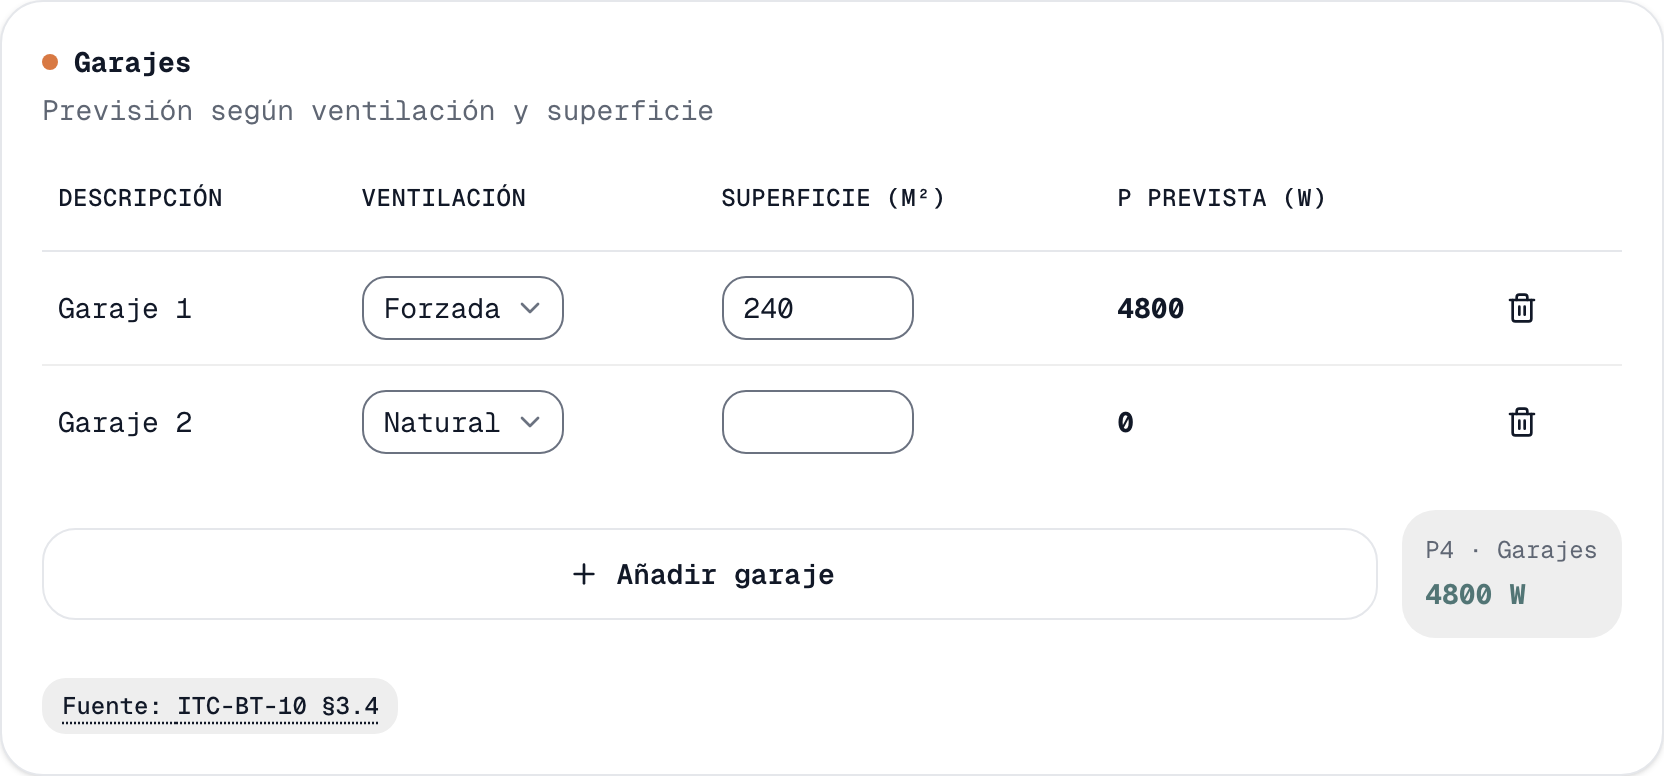
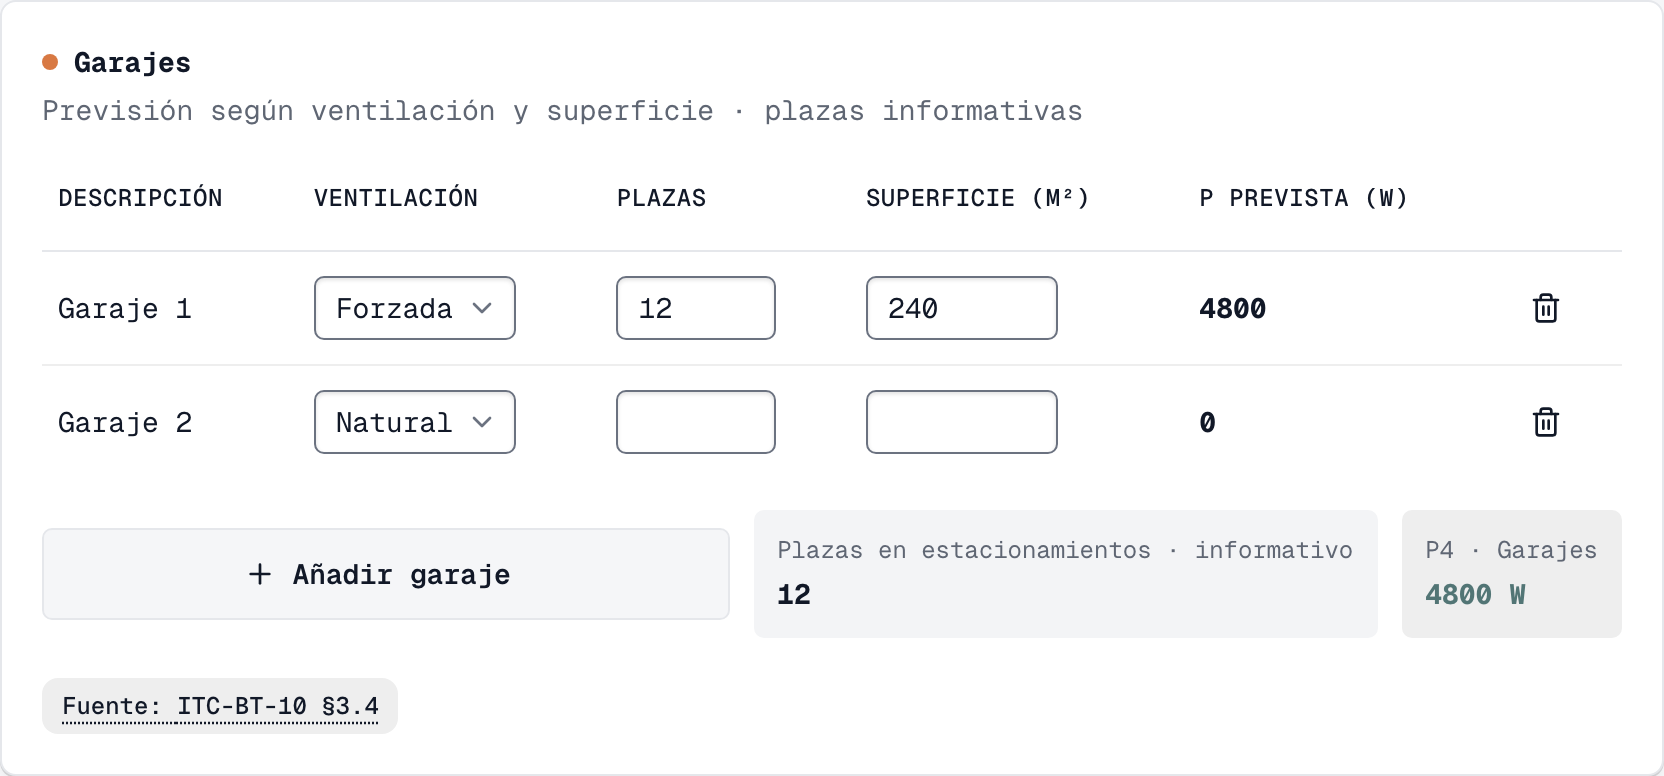
feat(cargas): plazas informativas en los garajes de P4
Cada fila de Garajes registra su numero de plazas, un dato que no entra en
la formula de P4 (superficie x densidad con minimo de 3.450 W) y que sirve
de recuento para el minimo del 10 % de IRVE de la ITC-BT-10 §5.2.

- Columna Plazas en la tabla, metrica con el total y columna en el PDF.
- El snapshot guardado normaliza plazas ausentes o invalidas a 0 sin
  descartar el proyecto.
- Nota de fuente, pagina de ayuda (captura regenerada) y README alineados.

diff --git a/components/load-calculator.tsx b/components/load-calculator.tsx
@@ -49,7 +49,7 @@ type HousingRow = { level: 'Básica' | 'Elevada'; power: number; homes: number }
 /** A select option: a plain string, or a value with its own printed label. */
 type ChoiceItem = string | { value: string; label: string }
 type LocalRow = { name: string; type: 'Comercial/oficina' | 'Industria'; area: number; real: number }
-type GarageRow = { name: string; ventilation: 'Forzada' | 'Natural'; area: number }
+type GarageRow = { name: string; ventilation: 'Forzada' | 'Natural'; area: number; plazas: number }
 type ElevatorRow = { name: string; ita: 'ITA-1' | 'ITA-2' | 'ITA-3' | 'ITA-4' | 'ITA-5' | 'ITA-6'; power: number; unit: 'W' | 'CV' }
 
 // ITA types from ITC-BT 10 table
@@ -149,8 +149,8 @@ const exampleLocals: LocalRow[] = [
   { name: 'Local 2', type: 'Comercial/oficina', area: 30, real: 0 },
 ]
 const exampleGarages: GarageRow[] = [
-  { name: 'Garaje 1', ventilation: 'Forzada', area: 240 },
-  { name: 'Garaje 2', ventilation: 'Natural', area: 0 },
+  { name: 'Garaje 1', ventilation: 'Forzada', area: 240, plazas: 12 },
+  { name: 'Garaje 2', ventilation: 'Natural', area: 0, plazas: 0 },
 ]
 const fmt = (value: number, digits = 0) => new Intl.NumberFormat('es-ES', { maximumFractionDigits: digits, minimumFractionDigits: digits }).format(value)
 const fmtDec = (value: number) => new Intl.NumberFormat('es-ES', { maximumFractionDigits: 2 }).format(value)
@@ -375,6 +375,9 @@ export function LoadCalculator() {
       plazas, lightingPower, motorIncrement, elevatorPower, motorPower, largestMotorPower, otherPower, localPowers, garagePowers, irveCs,
     }
   }, [housing, locals, garages, elevators, motors, otherLoads, lighting, parking, irveOption, settings])
+
+  // Recuento informativo: las plazas de los garajes no intervienen en P4.
+  const garageParkingSpaces = garages.reduce((sum, row) => sum + Math.max(0, row.plazas || 0), 0)
 
   const loadExplanation = useMemo(
     () => explainLoadForecast({ housing, locals, garages, elevators, motors, otherLoads, lighting, parking, irveOption }, result, settings),
@@ -677,7 +680,7 @@ export function LoadCalculator() {
     addExplanationPage('2.1 Desarrollo del cálculo · Previsión de cargas', loadExplanation as { steps: PdfExplanationStep[] })
     addDetailPage('3. Servicios generales', ['Descripción', 'Tipo', 'Potencia'], [...elevators.map(row => [row.name, row.ita, `${fmt(row.unit === 'CV' ? row.power * settings.cvToWatts : row.power)} W`]), ...motors.map(row => [row.name, 'Motor', `${fmt(row.unit === 'CV' ? row.power * settings.cvToWatts : row.power)} W`]), ['Incremento del motor mayor', `×${fmtDec(settings.motorCoefficient)}`, `${fmt(result.motorIncrement)} W`], ...otherLoads.map(row => [row.name, 'Otra carga', `${fmt(row.power)} W`]), ...lighting.filter(row => previewLightingPower(row, settings) > 0).map(row => [LIGHTING_LABELS[row.id], row.lamp, `${fmt(previewLightingPower(row, settings))} W`]), ['Subtotal alumbrado', `×${fmtDec(settings.dischargeLampCoefficient)} lámparas de descarga`, `${fmt(result.lightingPower)} W`]])
     addDetailPage('4. Locales y oficinas', ['Descripción', 'Tipo', 'Superficie', 'Previsión'], locals.map(row => [row.name, row.type, `${row.area} m²`, `${fmt(previewLocalPower(row, settings))} W`]))
-    addDetailPage('5. Garajes', ['Descripción', 'Ventilación', 'Superficie', 'Previsión'], garages.map(row => [row.name, row.ventilation, `${row.area} m²`, `${fmt(Math.max(row.area * (row.ventilation === 'Forzada' ? settings.forcedGaragePowerPerM2 : settings.naturalGaragePowerPerM2), row.area ? settings.minimumSupplyPower : 0))} W`]))
+    addDetailPage('5. Garajes', ['Descripción', 'Ventilación', 'Plazas', 'Superficie', 'Previsión'], garages.map(row => [row.name, row.ventilation, fmt(row.plazas || 0), `${row.area} m²`, `${fmt(Math.max(row.area * (row.ventilation === 'Forzada' ? settings.forcedGaragePowerPerM2 : settings.naturalGaragePowerPerM2), row.area ? settings.minimumSupplyPower : 0))} W`]))
     addDetailPage('6. Línea General de Alimentación · ITC-BT-14', ['Concepto', 'Valor'], [
       ['Potencia prevista', `${fmt(lga.powerW)} W`],
       ['Intensidad de línea (Ib)', `${fmt(lgaResult.ratedCurrent, 2)} A`],
@@ -898,7 +901,7 @@ export function LoadCalculator() {
             </section>
             <section className="rounded-card border border-line bg-paper p-5 shadow-card"><SectionTitle title="Servicios generales" subtitle="Ascensores, motores, otras cargas y alumbrado de zonas comunes" /><div className="flex flex-col gap-4"><ServiceTable title="Ascensores" addLabel="Añadir ascensor" onAdd={() => setElevators(es => [...es, { name: `Ascensor ${es.length + 1}`, ita: 'ITA-1', power: itaPowerW('ITA-1'), unit: 'W' }])} headers={['Descripción', 'ITA', 'Potencia ITA', 'Potencia real', 'Unidad', '']} rows={elevators.map((row, i) => [<Input key="name" aria-label={`Descripción · Ascensor ${i + 1}`} className="w-32" value={row.name} onChange={e => setElevators(es => es.map((x, j) => j === i ? { ...x, name: e.target.value } : x))} />, <div key="ita-group" className="flex items-center gap-1"><ChoiceSelect key="ita" label={`Tipo ITA · ${row.name}`} value={row.ita} onChange={value => setElevators(es => es.map((x, j) => j === i ? { ...x, ita: value as ElevatorRow['ita'], power: itaPowerW(value as ElevatorRow['ita']), unit: 'W' } : x))} items={['ITA-1', 'ITA-2', 'ITA-3', 'ITA-4', 'ITA-5', 'ITA-6']} /><Button key="ita-info" type="button" variant="outline" size="icon" className="flex size-8 items-center justify-center rounded-lg border border-line bg-transparent text-ink-faint transition-colors hover:border-brand-mark hover:bg-brand-soft hover:text-brand-strong" aria-label="Ver tabla de tipos ITA" onClick={() => setShowItaTable(true)}><Table2 className="size-4" /></Button></div>, <span key="ita-power" className="tabular-nums text-sm">{fmtDec(itaPowerW(row.ita) / 1000)} kW</span>, <Input key="power" aria-label={`Potencia real · ${row.name}`} className="w-24" type="number" min="0" value={row.power || ''} onChange={e => setElevators(es => es.map((x, j) => j === i ? { ...x, power: Number(e.target.value) } : x))} />, <ChoiceSelect key="unit" label={`Unidad · ${row.name}`} value={row.unit} onChange={e => setElevators(es => es.map((x, j) => j === i ? { ...x, unit: e as ElevatorRow['unit'] } : x))} items={['W', 'CV']} />, <Button key="remove" type="button" variant="ghost" size="icon" aria-label={`Eliminar ${row.name}`} onClick={() => setElevators(es => es.filter((_, j) => j !== i))}><Trash2 /></Button>])} /><ServiceTable title="Motores" addLabel="Añadir motor" onAdd={() => setMotors(ms => [...ms, { name: `Motor ${ms.length + 1}`, power: 0, unit: 'W' }])} headers={['Descripción', 'Potencia', 'Unidad', '']} rows={motors.map((row, i) => [<Input key="name" aria-label={`Descripción · Motor ${i + 1}`} className="w-36" value={row.name} onChange={e => setMotors(ms => ms.map((x, j) => j === i ? { ...x, name: e.target.value } : x))} />, <Input key="power" aria-label={`Potencia · ${row.name}`} className="w-24" type="number" min="0" value={row.power || ''} onChange={e => setMotors(ms => ms.map((x, j) => j === i ? { ...x, power: Number(e.target.value) } : x))} />, <ChoiceSelect key="unit" label={`Unidad · ${row.name}`} value={row.unit} onChange={e => setMotors(ms => ms.map((x, j) => j === i ? { ...x, unit: e as MotorRow['unit'] } : x))} items={['W', 'CV']} />, <Button key="remove" type="button" variant="ghost" size="icon" aria-label={`Eliminar ${row.name}`} onClick={() => setMotors(ms => ms.filter((_, j) => j !== i))}><Trash2 /></Button>])} /><ServiceTable title="Otras cargas" addLabel="Añadir carga" onAdd={() => setOtherLoads(ls => [...ls, { name: `Carga ${ls.length + 1}`, power: 0 }])} headers={['Descripción', 'Potencia (W)', '']} rows={otherLoads.map((row, i) => [<Input key="name" aria-label={`Descripción · Carga ${i + 1}`} className="w-44" value={row.name} onChange={e => setOtherLoads(ls => ls.map((x, j) => j === i ? { ...x, name: e.target.value } : x))} />, <Input key="power" aria-label={`Potencia · ${row.name}`} className="w-28" type="number" min="0" value={row.power || ''} onChange={e => setOtherLoads(ls => ls.map((x, j) => j === i ? { ...x, power: Number(e.target.value) } : x))} />, <Button key="remove" type="button" variant="ghost" size="icon" aria-label={`Eliminar ${row.name}`} onClick={() => setOtherLoads(ls => ls.filter((_, j) => j !== i))}><Trash2 /></Button>])} /><LightingTable rows={lighting} settings={settings} onChange={setLighting} /></div><Metric label="P2 · Servicios generales" value={`${fmt(result.p2)} W`} accent /><p className="mt-4 flex items-start gap-2 rounded-lg bg-brand-soft p-3 text-xs leading-5 text-brand-ink"><Info data-icon="inline-start" /> ITA permite distinguir la potencia del ascensor. Coeficientes actuales: ascensores ×{fmtDec(settings.elevatorCoefficient)}, motor de mayor potencia ×{fmtDec(settings.motorCoefficient)} y lámparas de descarga ×{fmtDec(settings.dischargeLampCoefficient)}. Motores y otras cargas se suman a valor nominal; el incremento del motor mayor es {fmt(result.motorIncrement)} W. Conversión para potencias expresadas en CV: {fmtDec(settings.cvToWatts)} W/CV. Los cambios en Parámetros de cálculo se aplican automáticamente a P2.</p>{settings.showSourceNotes && <SourceNote label="ITC-BT-10 §3.2">ITC-BT-10 §3.2: los servicios generales se suman sin factor de reducción por simultaneidad (CS = 1). La instrucción no fija coeficientes de mayoración: el 1,3 de ascensores, el 25 % del motor mayor y el 1,8 de lámparas de descarga son criterios de proyecto, editables en Parámetros de cálculo. <BoeLink href={BOE_REBT} label="RD 842/2002 · BOE-A-2002-18099" /></SourceNote>}</section>
             <section className="rounded-card border border-line bg-paper p-5 shadow-card"><SectionTitle title="Locales, oficinas e industrias" subtitle="Comercial/oficina o industria: se toma el mayor valor entre previsión real, superficie y mínimo por abonado" /><EditableTable headers={['Descripción', 'Tipo', 'Superficie (m²)', 'Previsión real (W)', 'P prevista (W)', '']} rows={locals.map((row, i) => [row.name, <ChoiceSelect key="type" label={`Tipo · ${row.name}`} value={row.type} onChange={value => setLocals(ls => ls.map((x, j) => j === i ? { ...x, type: value as LocalRow['type'] } : x))} items={['Comercial/oficina', 'Industria']} />, <Input key="a" aria-label={`Superficie (m²) · ${row.name}`} className="w-24" type="number" min="0" value={row.area || ''} onChange={e => setLocals(ls => ls.map((x, j) => j === i ? { ...x, area: Number(e.target.value) } : x))} />, <Input key="b" aria-label={`Previsión real (W) · ${row.name}`} className="w-28" type="number" min="0" value={row.real || ''} onChange={e => setLocals(ls => ls.map((x, j) => j === i ? { ...x, real: Number(e.target.value) } : x))} />, <strong key="c" className="tabular-nums">{fmt(previewLocalPower(row, settings))}</strong>, <Button key="d" type="button" variant="ghost" size="icon" aria-label={`Eliminar ${row.name}`} onClick={() => setLocals(ls => ls.filter((_, j) => j !== i))}><Trash2 data-icon="inline-start" /></Button>])} />{locals.length === 0 && <p className="py-4 text-center text-sm text-ink-faint">No hay locales añadidos.</p>}<div className="mt-4 flex flex-col gap-3 sm:flex-row sm:items-center sm:justify-between"><Button type="button" variant="outline" className="w-full h-auto gap-2 rounded-control px-4 py-3 font-semibold sm:w-auto sm:flex-1" onClick={() => setLocals(ls => [...ls, { name: `Local ${ls.length + 1}`, type: 'Comercial/oficina', area: 0, real: 0 }])}><Plus data-icon="inline-start" /> Añadir local</Button><Metric label="P3 · Locales y oficinas" value={`${fmt(result.p3)} W`} accent /></div>{settings.showSourceNotes && <SourceNote label="ITC-BT-10 §3.3 y §4.2">ITC-BT-10 §3.3 para locales comerciales y oficinas (100 W/m² y planta, mínimo 3.450 W por local) y §4.2 «Edificios destinados a concentración de industrias» (125 W/m² y planta, mínimo 10.350 W), ambos con CS = 1. <BoeLink href={BOE_REBT} label="RD 842/2002 · BOE-A-2002-18099" /></SourceNote>}</section>
-            <section className="rounded-card border border-line bg-paper p-5 shadow-card"><SectionTitle title="Garajes" subtitle="Previsión según ventilación y superficie" /><EditableTable headers={['Descripción', 'Ventilación', 'Superficie (m²)', 'P prevista (W)', '']} rows={garages.map((row, i) => [row.name, <ChoiceSelect key="a" label={`Ventilación · ${row.name}`} value={row.ventilation} onChange={e => setGarages(gs => gs.map((x, j) => j === i ? { ...x, ventilation: e as GarageRow['ventilation'] } : x))} items={['Forzada', 'Natural']} />, <Input key="b" aria-label={`Superficie (m²) · ${row.name}`} className="w-24" type="number" min="0" value={row.area || ''} onChange={e => setGarages(gs => gs.map((x, j) => j === i ? { ...x, area: Number(e.target.value) } : x))} />, <strong key="c" className="tabular-nums">{fmt(previewGaragePower(row, settings))}</strong>, <Button key="d" type="button" variant="ghost" size="icon" aria-label={`Eliminar ${row.name}`} onClick={() => setGarages(gs => gs.filter((_, j) => j !== i))}><Trash2 data-icon="inline-start" /></Button>])} />{garages.length === 0 && <p className="py-4 text-center text-sm text-ink-faint">No hay garajes añadidos.</p>}<div className="mt-4 flex flex-col gap-3 sm:flex-row sm:items-center sm:justify-between"><Button type="button" variant="outline" className="w-full h-auto gap-2 rounded-control px-4 py-3 font-semibold sm:w-auto sm:flex-1" onClick={() => setGarages(gs => [...gs, { name: `Garaje ${gs.length + 1}`, ventilation: 'Forzada', area: 0 }])}><Plus data-icon="inline-start" /> Añadir garaje</Button><Metric label="P4 · Garajes" value={`${fmt(result.p4)} W`} accent /></div>{settings.showSourceNotes && <SourceNote label="ITC-BT-10 §3.4">ITC-BT-10 §3.4: 10 W/m² y planta con ventilación natural y 20 W/m² con ventilación forzada, con un mínimo de 3.450 W por garaje y CS = 1. <BoeLink href={BOE_REBT} label="RD 842/2002 · BOE-A-2002-18099" /></SourceNote>}</section>
+            <section className="rounded-card border border-line bg-paper p-5 shadow-card"><SectionTitle title="Garajes" subtitle="Previsión según ventilación y superficie · plazas informativas" /><EditableTable headers={['Descripción', 'Ventilación', 'Plazas', 'Superficie (m²)', 'P prevista (W)', '']} rows={garages.map((row, i) => [row.name, <ChoiceSelect key="a" label={`Ventilación · ${row.name}`} value={row.ventilation} onChange={e => setGarages(gs => gs.map((x, j) => j === i ? { ...x, ventilation: e as GarageRow['ventilation'] } : x))} items={['Forzada', 'Natural']} />, <Input key="p" aria-label={`Plazas · ${row.name}`} className="w-20" type="number" min="0" step="1" value={row.plazas || ''} onChange={e => setGarages(gs => gs.map((x, j) => j === i ? { ...x, plazas: Number(e.target.value) } : x))} />, <Input key="b" aria-label={`Superficie (m²) · ${row.name}`} className="w-24" type="number" min="0" value={row.area || ''} onChange={e => setGarages(gs => gs.map((x, j) => j === i ? { ...x, area: Number(e.target.value) } : x))} />, <strong key="c" className="tabular-nums">{fmt(previewGaragePower(row, settings))}</strong>, <Button key="d" type="button" variant="ghost" size="icon" aria-label={`Eliminar ${row.name}`} onClick={() => setGarages(gs => gs.filter((_, j) => j !== i))}><Trash2 data-icon="inline-start" /></Button>])} />{garages.length === 0 && <p className="py-4 text-center text-sm text-ink-faint">No hay garajes añadidos.</p>}<div className="mt-4 flex flex-col gap-3 sm:flex-row sm:items-center sm:justify-between"><Button type="button" variant="outline" className="w-full h-auto gap-2 rounded-control px-4 py-3 font-semibold sm:w-auto sm:flex-1" onClick={() => setGarages(gs => [...gs, { name: `Garaje ${gs.length + 1}`, ventilation: 'Forzada', area: 0, plazas: 0 }])}><Plus data-icon="inline-start" /> Añadir garaje</Button><div className="flex flex-wrap items-end gap-3"><Metric label="Plazas en estacionamientos · informativo" value={fmt(garageParkingSpaces)} /><Metric label="P4 · Garajes" value={`${fmt(result.p4)} W`} accent /></div></div>{settings.showSourceNotes && <SourceNote label="ITC-BT-10 §3.4">ITC-BT-10 §3.4: 10 W/m² y planta con ventilación natural y 20 W/m² con ventilación forzada, con un mínimo de 3.450 W por garaje y CS = 1. El número de plazas de cada garaje es informativo: no interviene en P4, que se calcula por superficie; su total es el que la ITC-BT-10 §5.2 usa para el mínimo del 10 % de IRVE. <BoeLink href={BOE_REBT} label="RD 842/2002 · BOE-A-2002-18099" /></SourceNote>}</section>
             <section className="rounded-card border border-line bg-paper p-5 shadow-card"><SectionTitle title="Recarga de vehículos eléctricos · IRVE" subtitle="Selecciona el escenario de previsión" /><div className="grid gap-3 sm:grid-cols-[180px_1fr]"><LabeledInput label="Plazas de aparcamiento" value={parking === 0 ? '' : String(parking)} suffix="uds." onChange={e => setParking(Number(e.target.value))} /><FieldSet><FieldLegend className="text-xs font-semibold uppercase tracking-wide text-ink-faint">Opción de cálculo</FieldLegend><RadioGroup value={irveOption} onValueChange={value => setIrveOption(Number(value))}>{IRVE_OPTION_LABELS.map((name, i) => <FieldLabel key={name} htmlFor={`irve-${i + 1}`} onClick={() => setIrveOption(i + 1)} className={`flex w-full cursor-pointer items-center gap-3 rounded-lg border p-3 text-sm ${irveOption === i + 1 ? 'border-brand-mark bg-brand-soft' : 'border-line'}`}><RadioGroupItem id={`irve-${i + 1}`} value={i + 1} />{name}<span className="ml-auto text-xs text-ink-faint">Cs {i === 1 ? '0,3' : '1'}</span></FieldLabel>)}</RadioGroup></FieldSet></div><div className="mt-4 flex justify-end"><Metric label={`P5 · IRVE · ${result.plazas} plazas consideradas`} value={`${fmt(result.p5)} W`} accent /></div>{settings.showSourceNotes && <SourceNote label="ITC-BT-10 §5.2">ITC-BT-10 §5.2 (apartado añadido por el RD 1053/2014): 3.680 W por cada plaza del 10 % de las plazas construidas, multiplicado por el factor de simultaneidad de la ITC-BT-52 (1 sin SPL, 0,3 con SPL). Ese 10 % es el mínimo legal; las opciones «todas las plazas» son una previsión ampliada. <BoeLink href={BOE_ITC_BT_52} label="RD 1053/2014 · BOE-A-2014-13681" /></SourceNote>}</section>
           </div>
           <aside className="flex min-w-0 flex-col gap-4 xl:sticky xl:top-6 xl:self-start"><div className="overflow-hidden rounded-panel bg-panel text-panel-foreground shadow-panel"><div className="border-b border-panel-line p-6"><p className="text-xs font-semibold uppercase tracking-[0.2em] text-brand-on-panel">Resultado del proyecto</p><p className="mt-5 text-4xl font-bold tabular-nums tracking-tight">{fmt(result.total)} <span className="text-lg font-medium text-panel-muted">W</span></p><p className="mt-1 text-sm text-panel-muted">Potencia total prevista</p>{result.total === 0 && <p className="mt-3 rounded-lg bg-panel-edge/60 p-3 text-xs leading-5 text-panel-muted">Sin cargas todavía. Añade viviendas o pulsa «Cargar ejemplo» para partir del edificio de referencia.</p>}</div><div className="flex flex-col gap-3 p-6">{[['P1', 'Viviendas', result.p1], ['P2', 'Servicios generales', result.p2], ['P3', 'Locales y oficinas', result.p3], ['P4', 'Garajes', result.p4], ['P5', 'IRVE', result.p5]].map(([code, label, value]) => {

diff --git a/components/help-doc.tsx b/components/help-doc.tsx
@@ -212,7 +212,7 @@ export function HelpDoc() {
                     ['P1 · Viviendas', 'Una fila por tipo de vivienda, con su grado de electrificación', 'Coeficiente según el número de viviendas (ITC-BT-10 §2.2)'],
                     ['P2 · Servicios generales', 'Ascensores, motores, otras cargas y alumbrado de zonas comunes', '1, más el 25 % del motor más grande'],
                     ['P3 · Locales, oficinas e industrias', 'Superficie, previsión real declarada o mínimo por abonado', '1'],
-                    ['P4 · Garajes', 'Superficie y tipo de ventilación', '1'],
+                    ['P4 · Garajes', 'Superficie, tipo de ventilación y plazas (informativas)', '1'],
                     ['P5 · Recarga de vehículos', 'Plazas de aparcamiento y escenario de previsión', '1 sin SPL, 0,3 con SPL'],
                   ]}
                 />
@@ -282,6 +282,9 @@ export function HelpDoc() {
                 <p>
                   Los garajes se prevén por superficie y por cómo se ventilan, porque la ventilación es lo que determina la carga de los extractores.
                 </p>
+                <p>
+                  Cada garaje lleva además el número de plazas. Es un dato informativo: no cambia la potencia de P4, que sale de la superficie, y sirve para el recuento de plazas construidas que la ITC-BT-10 §5.2 usa en el mínimo del 10 % de recarga.
+                </p>
                 <DataTable
                   head={['Ventilación', 'Densidad', 'Mínimo']}
                   rows={[
@@ -291,7 +294,7 @@ export function HelpDoc() {
                 />
                 <Shot
                   id="garajes"
-                  alt="Bloque de garajes con la descripción, el tipo de ventilación, la superficie y la potencia prevista de cada garaje"
+                  alt="Bloque de garajes con la descripción, el tipo de ventilación, el número de plazas, la superficie y la potencia prevista de cada garaje"
                   caption="P4: la columna de potencia ya aplica la densidad de la ventilación elegida y el mínimo por garaje."
                 />
               </Section>

diff --git a/README.md b/README.md
@@ -77,7 +77,7 @@ La previsión se desglosa en cinco bloques (códigos **P1**–**P5**) y suma el 
 | **P1** | Viviendas       | Potencia media por vivienda × **coeficiente de simultaneidad** (según nº de viviendas). |
 | **P2** | Servicios generales | Ascensores ×1,3, motores a valor nominal con un incremento del 25 % sobre el mayor, otras cargas a nominal y **alumbrado de zonas comunes** (15/8 W/m² portal y 7/4 W/m² escalera, ×1,8 en lámparas de descarga). |
 | **P3** | Locales y oficinas | Por fila: comercial/oficina (100 W/m², mínimo 3.450 W) o industria (125 W/m², mínimo 10.350 W). Se toma el **mayor** entre previsión real, W/m² y mínimo por abonado. |
-| **P4** | Garajes         | Potencia por superficie según ventilación (**forzada** 20 W/m² o **natural** 10 W/m²), con mínimo de 3.450 W por garaje. |
+| **P4** | Garajes         | Potencia por superficie según ventilación (**forzada** 20 W/m² o **natural** 10 W/m²), con mínimo de 3.450 W por garaje. Cada fila registra además su **número de plazas**, un dato informativo que no entra en P4. |
 | **P5** | IRVE            | Recarga de vehículos eléctricos: todas las plazas (con o sin SPL) o mínimo 10 %. |
 | —      | **TOTAL**       | `P1 + P2 + P3 + P4 + P5`                                                            |
 
@@ -158,6 +158,7 @@ El tipo se elige por fila, así que un mismo edificio puede sumar locales comerc
 
 - Ventilación forzada: 20 W/m² · natural: 10 W/m².
 - Una fila sin superficie aporta 0.
+- Cada garaje registra su **número de plazas**. Es informativo: no interviene en la fórmula de P4 y solo se suma para mostrar el total de plazas de estacionamiento, que es el dato que la ITC-BT-10 §5.2 usa en el mínimo del 10 % de IRVE.
 
 ### P5 · IRVE
 
